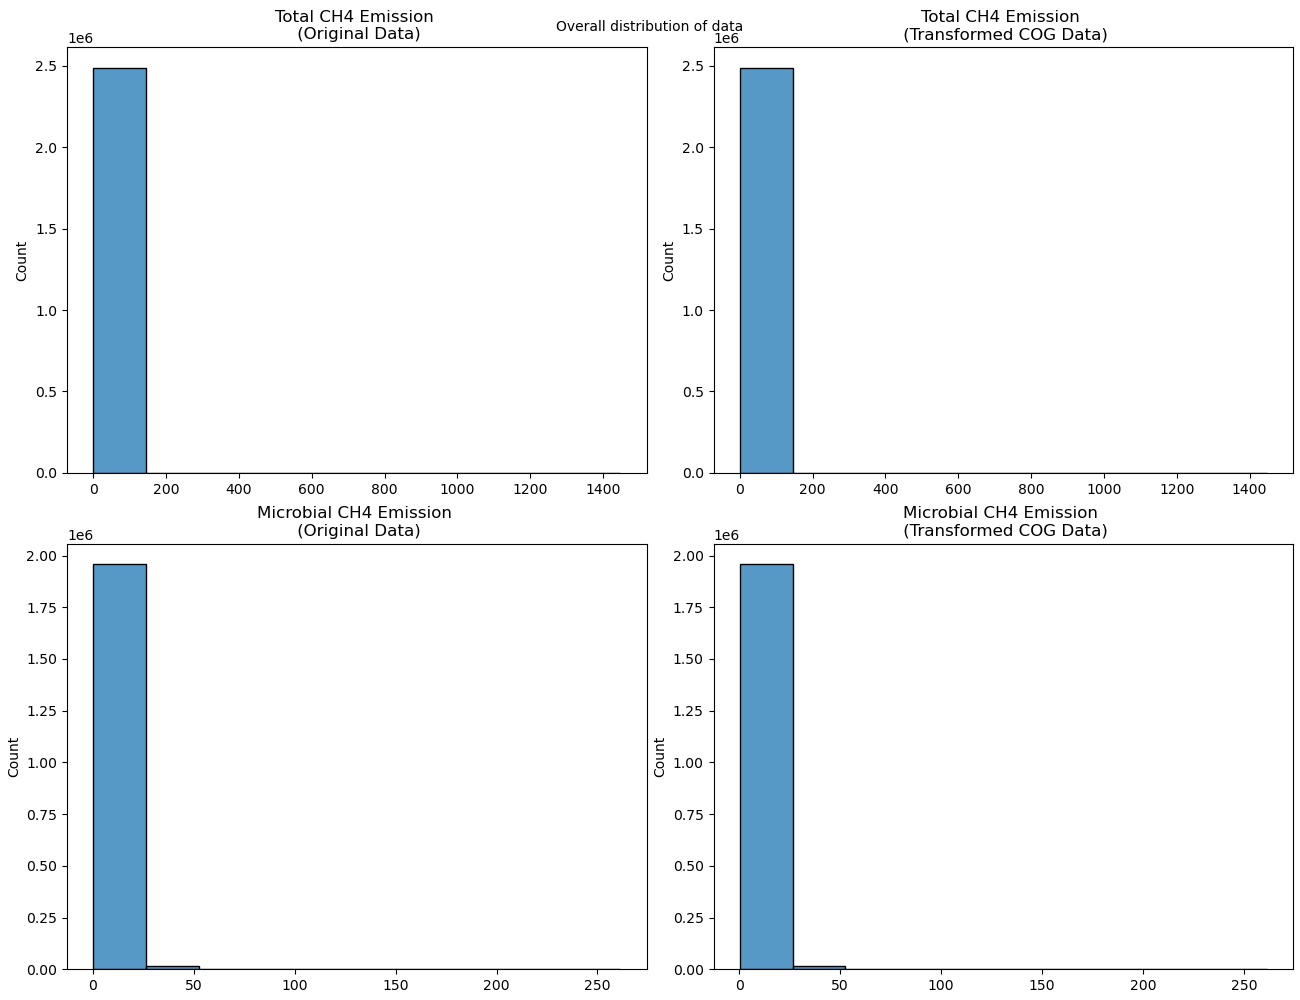
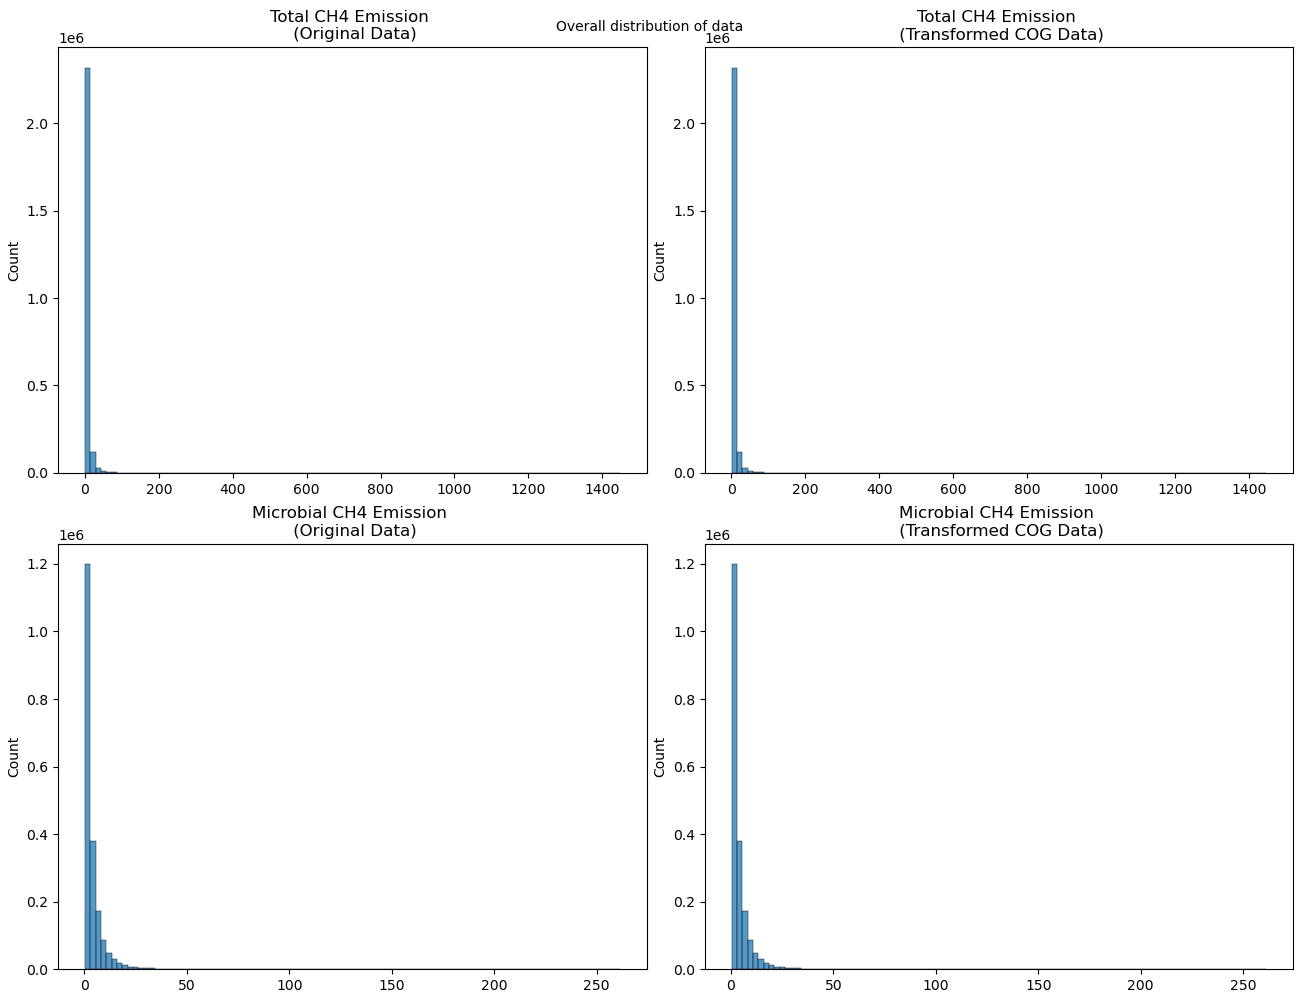
updated statistics plots for ecco darwin, EPA and TM5 flux dataset

diff --git a/generating_statistics_for_validation/epa-gridded/epa-gridded-generate-statistics.py b/generating_statistics_for_validation/epa-gridded/epa-gridded-generate-statistics.py
@@ -193,7 +193,7 @@ for key_value in full_data_df_netcdf.index.values:
     if key_value[0].startswith("emi_ch4_3A_Enteric_Fermentation"):
         temp_df = temp_df._append(full_data_df_netcdf.loc[key_value])
 temp_df = temp_df.to_numpy().flatten()
-sns.histplot(data=temp_df, kde=False, bins=10, legend=False, ax=ax[0][0])
+sns.histplot(data=temp_df, kde=False, bins=100, legend=False, ax=ax[0][0])
 ax[0][0].set_title("Agriculture - Enteric Fermentation \n (Original Data)")
 
 temp_df = pd.DataFrame()
@@ -201,7 +201,7 @@ for key_value in full_data_df_cog.index.values:
     if key_value[0].startswith("emi_ch4_3A_Enteric_Fermentation"):
         temp_df = temp_df._append(full_data_df_cog.loc[key_value])
 temp_df = temp_df.to_numpy().flatten()
-sns.histplot(data=temp_df, kde=False, bins=10, legend=False, ax=ax[0][1])
+sns.histplot(data=temp_df, kde=False, bins=100, legend=False, ax=ax[0][1])
 ax[0][1].set_title("Agriculture - Enteric Fermentation \n (Transformed COG Data)")
 
 temp_df = pd.DataFrame()
@@ -209,7 +209,7 @@ for key_value in full_data_df_netcdf.index.values:
     if key_value[0].startswith("emi_ch4_1B2b_Natural_Gas_Production"):
         temp_df = temp_df._append(full_data_df_netcdf.loc[key_value])
 temp_df = temp_df.to_numpy().flatten()
-sns.histplot(data=temp_df, kde=False, bins=10, legend=False, ax=ax[1][0])
+sns.histplot(data=temp_df, kde=False, bins=100, legend=False, ax=ax[1][0])
 ax[1][0].set_title("Natural Gas-Production \n (Original Data)")
 
 temp_df = pd.DataFrame()
@@ -217,7 +217,7 @@ for key_value in full_data_df_cog.index.values:
     if key_value[0].startswith("emi_ch4_1B2b_Natural_Gas_Production"):
         temp_df = temp_df._append(full_data_df_cog.loc[key_value])
 temp_df = temp_df.to_numpy().flatten()
-sns.histplot(data=temp_df, kde=False, bins=10, legend=False, ax=ax[1][1])
+sns.histplot(data=temp_df, kde=False, bins=100, legend=False, ax=ax[1][1])
 ax[1][1].set_title("Natural Gas-Production \n (Transformed COG data)")
 
 fig.tight_layout(pad=1)

diff --git a/generating_statistics_for_validation/tm54dvar-ch4flux-monthgrid-v1/tm54dvar-ch4flux-monthgrid-v1-generate-statistics.py b/generating_statistics_for_validation/tm54dvar-ch4flux-monthgrid-v1/tm54dvar-ch4flux-monthgrid-v1-generate-statistics.py
@@ -188,7 +188,7 @@ for key_value in full_data_df_netcdf.index.values:
     if key_value[0].startswith("emis_total"):
         temp_df = temp_df._append(full_data_df_netcdf.loc[key_value])
 temp_df = temp_df.to_numpy().flatten()
-sns.histplot(data=temp_df, kde=False, bins=10, legend=False, ax=ax[0][0])
+sns.histplot(data=temp_df, kde=False, bins=100, legend=False, ax=ax[0][0])
 ax[0][0].set_title("Total CH4 Emission \n (Original Data)")
 
 temp_df = pd.DataFrame()
@@ -196,7 +196,7 @@ for key_value in full_data_df_cog.index.values:
     if key_value[0].startswith("emis_total"):
         temp_df = temp_df._append(full_data_df_cog.loc[key_value])
 temp_df = temp_df.to_numpy().flatten()
-sns.histplot(data=temp_df, kde=False, bins=10, legend=False, ax=ax[0][1])
+sns.histplot(data=temp_df, kde=False, bins=100, legend=False, ax=ax[0][1])
 ax[0][1].set_title("Total CH4 Emission \n (Transformed COG Data)")
 
 temp_df = pd.DataFrame()
@@ -204,7 +204,7 @@ for key_value in full_data_df_netcdf.index.values:
     if key_value[0].startswith("emis_microbial"):
         temp_df = temp_df._append(full_data_df_netcdf.loc[key_value])
 temp_df = temp_df.to_numpy().flatten()
-sns.histplot(data=temp_df, kde=False, bins=10, legend=False, ax=ax[1][0])
+sns.histplot(data=temp_df, kde=False, bins=100, legend=False, ax=ax[1][0])
 ax[1][0].set_title("Microbial CH4 Emission \n (Original Data)")
 
 temp_df = pd.DataFrame()
@@ -212,7 +212,7 @@ for key_value in full_data_df_cog.index.values:
     if key_value[0].startswith("emis_microbial"):
         temp_df = temp_df._append(full_data_df_cog.loc[key_value])
 temp_df = temp_df.to_numpy().flatten()
-sns.histplot(data=temp_df, kde=False, bins=10, legend=False, ax=ax[1][1])
+sns.histplot(data=temp_df, kde=False, bins=100, legend=False, ax=ax[1][1])
 ax[1][1].set_title("Microbial CH4 Emission \n (Transformed COG Data)")
 
 fig.tight_layout(pad=0.5)

diff --git a/generating_statistics_for_validation/eccodarwin-co2flux-monthgrid-v5/eccodarwin-co2flux-monthgrid-v5-generate-statistics.py b/generating_statistics_for_validation/eccodarwin-co2flux-monthgrid-v5/eccodarwin-co2flux-monthgrid-v5-generate-statistics.py
@@ -195,10 +195,10 @@ with open("overall_stats.json", "w") as fp:
 
 fig, ax = plt.subplots(2, 2, figsize=(10, 10))
 
-sns.histplot(data=full_data_df_netcdf, kde=False, bins=10, legend=False, ax=ax[0][0])
+sns.histplot(data=full_data_df_netcdf.to_numpy().flatten(), kde=False, bins=100, legend=False, ax=ax[0][0])
 ax[0][0].set_title("distribution plot for overall raw data")
 
-sns.histplot(data=full_data_df_cog, kde=False, bins=10, legend=False, ax=ax[0][1])
+sns.histplot(data=full_data_df_cog.to_numpy().flatten(), kde=False, bins=100, legend=False, ax=ax[0][1])
 ax[0][1].set_title("distribution plot for overall cog data")
 
 new_order = [
